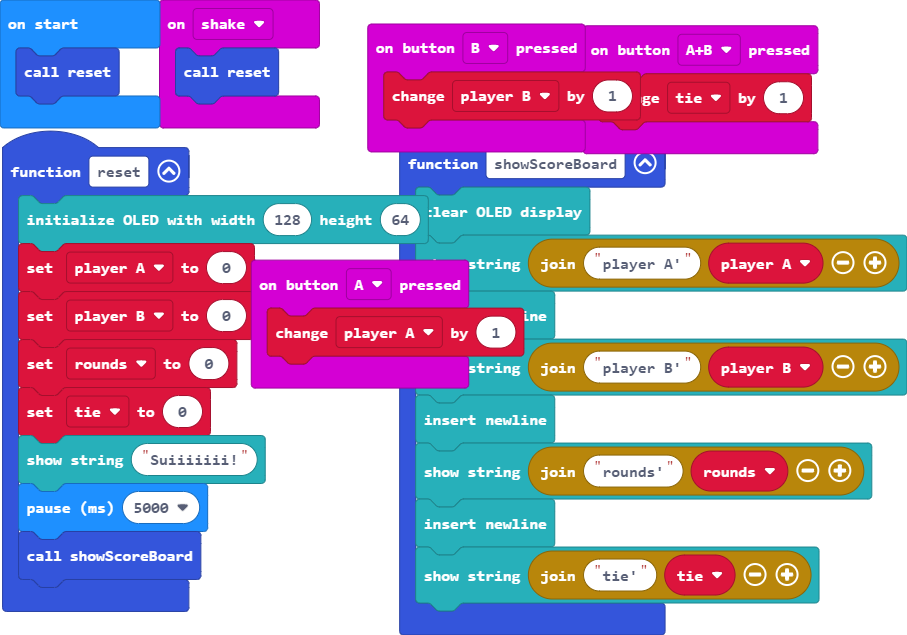
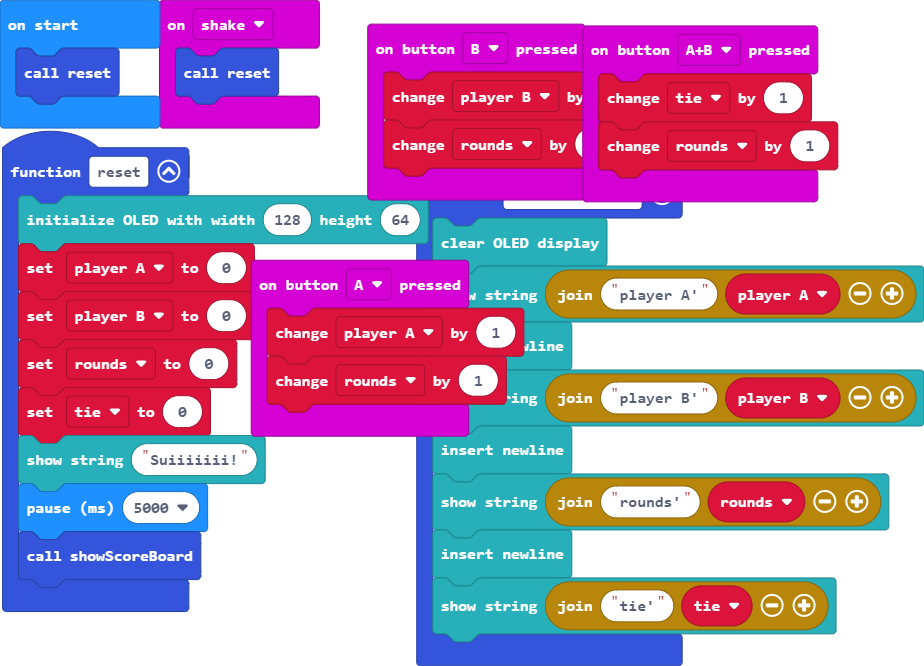
Update main.blocks, main.ts

diff --git a/main.ts b/main.ts
@@ -1,5 +1,6 @@
 input.onButtonPressed(Button.A, function () {
     player_A += 1
+    rounds += 1
 })
 function showScoreBoard () {
     OLED.clear()
@@ -13,9 +14,11 @@ function showScoreBoard () {
 }
 input.onButtonPressed(Button.AB, function () {
     tie += 1
+    rounds += 1
 })
 input.onButtonPressed(Button.B, function () {
     player_B += 1
+    rounds += 1
 })
 input.onGesture(Gesture.Shake, function () {
     reset()
@@ -31,7 +34,7 @@ function reset () {
     showScoreBoard()
 }
 let tie = 0
-let rounds = 0
 let player_B = 0
+let rounds = 0
 let player_A = 0
 reset()
